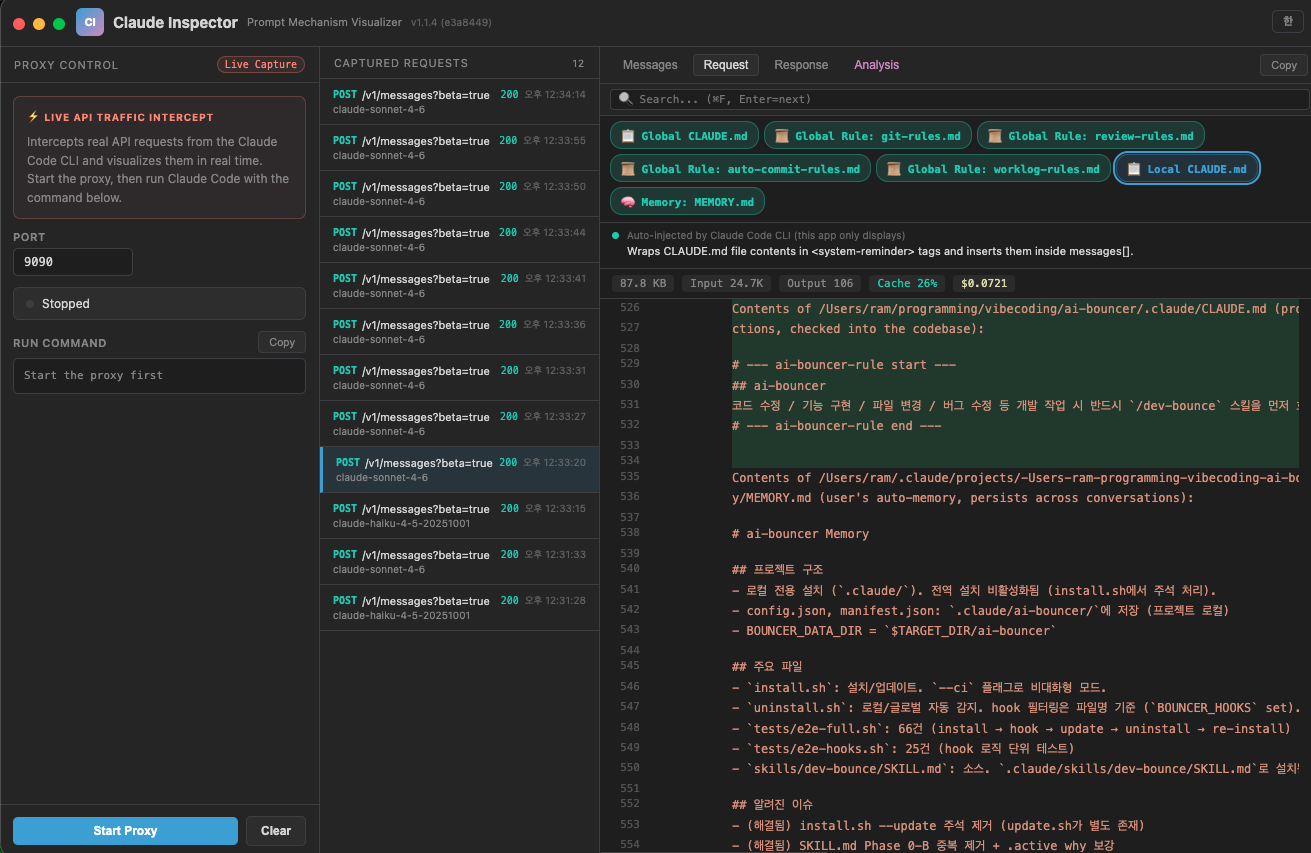
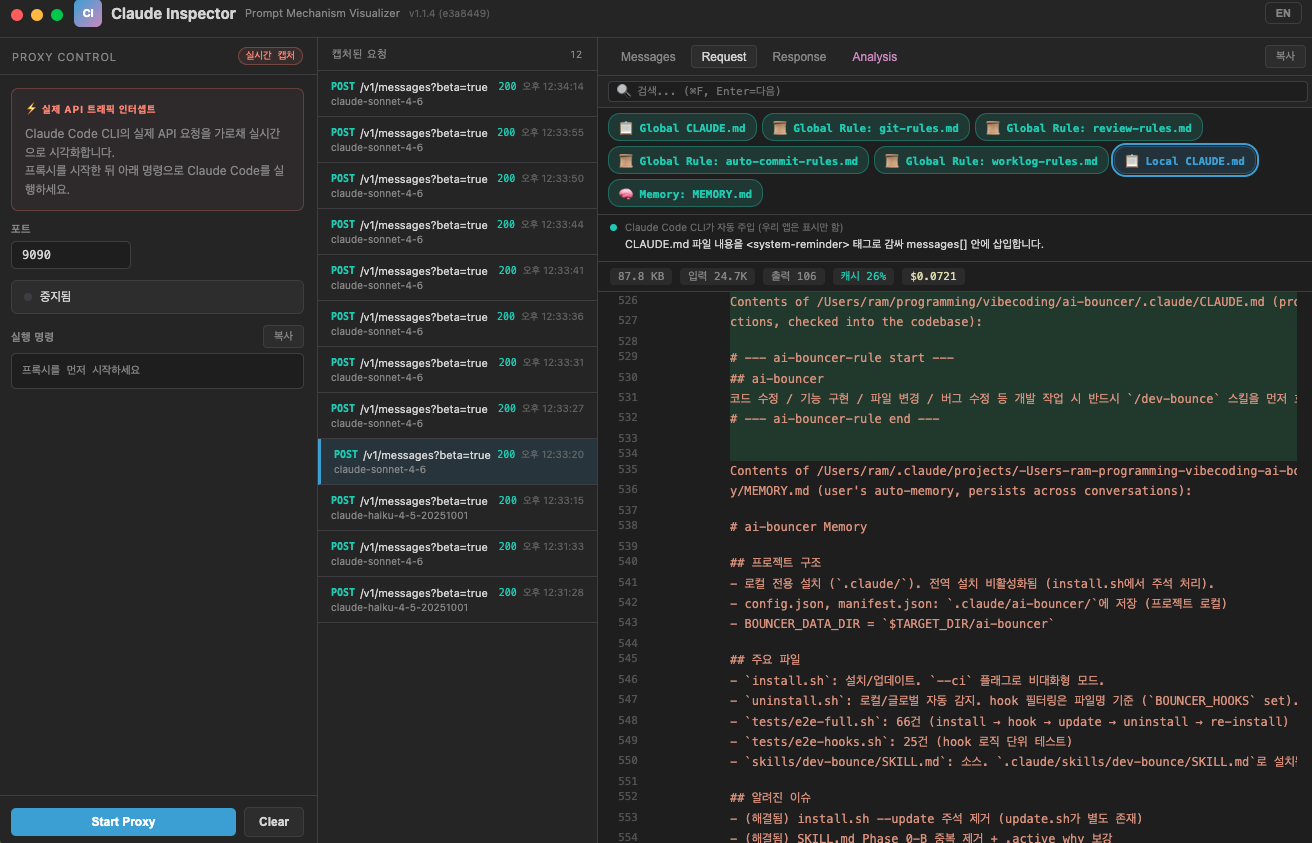
chore: 한국어 스크린샷으로 교체 및 README 이미지 경로 수정

diff --git a/README.md b/README.md
@@ -20,11 +20,15 @@ and visualizes all 5 prompt augmentation mechanisms.
 ---
 
 <p align="center">
-  <img src="public/screenshots/proxy-request-en.png" width="100%" alt="Proxy — Request view showing CLAUDE.md Global/Local section chips with inline text highlight" />
+  <img src="public/screenshots/1.png" width="100%" alt="Proxy — Analysis view" />
 </p>
 
 <p align="center">
-  <img src="public/screenshots/proxy-analysis-en.png" width="100%" alt="Proxy — Analysis view auto-detecting all 5 mechanisms with section content" />
+  <img src="public/screenshots/2.png" width="100%" alt="Proxy — Request view with cost breakdown" />
+</p>
+
+<p align="center">
+  <img src="public/screenshots/3.png" width="100%" alt="Proxy — Request view" />
 </p>
 
 ## What You'll Learn
